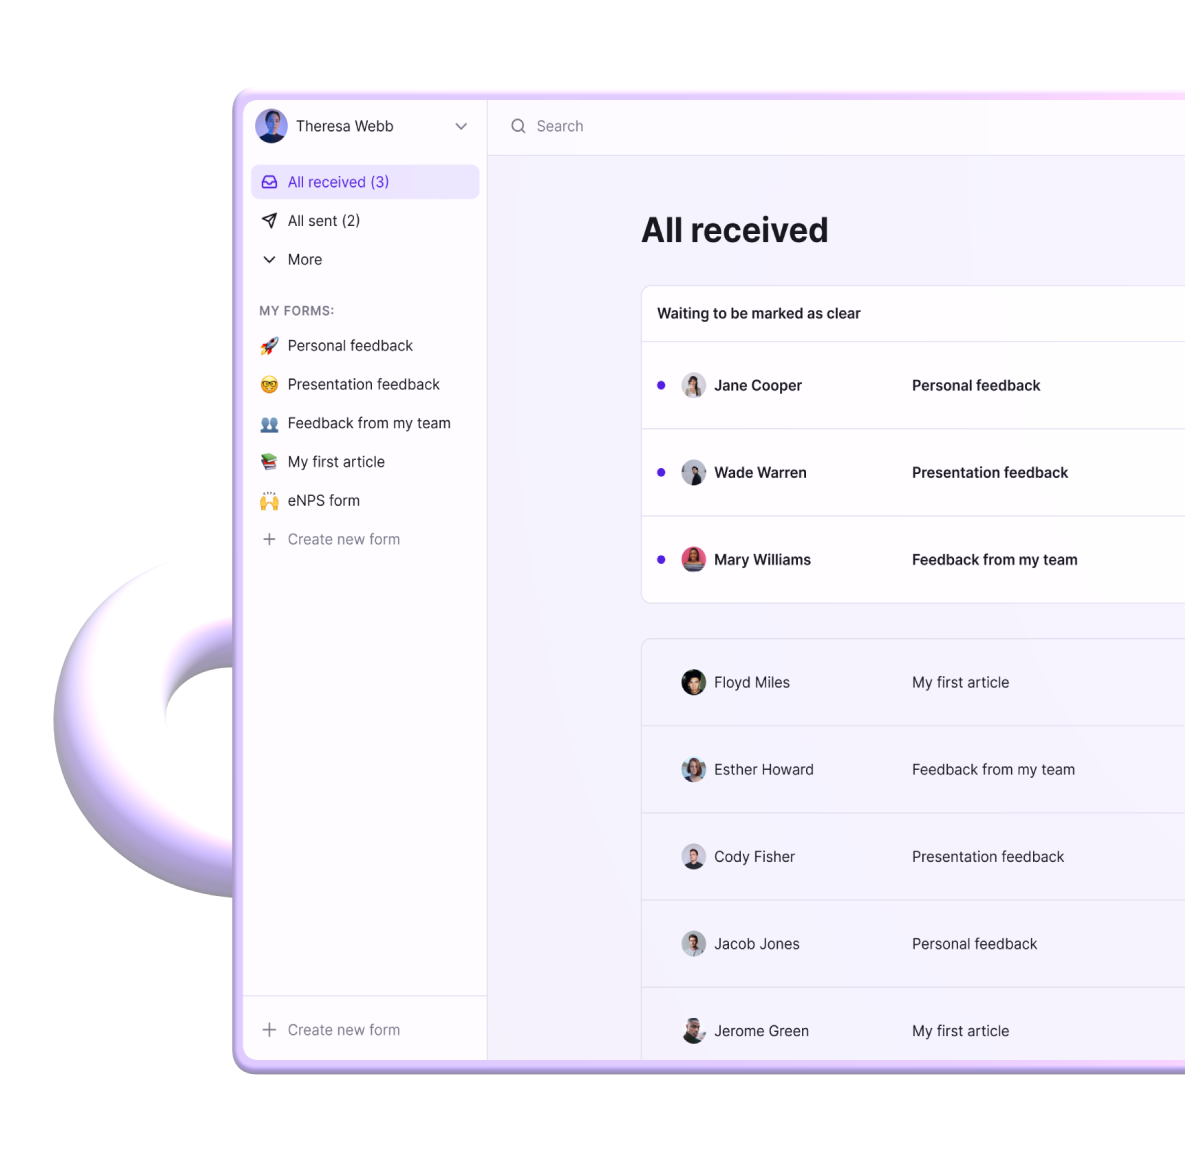
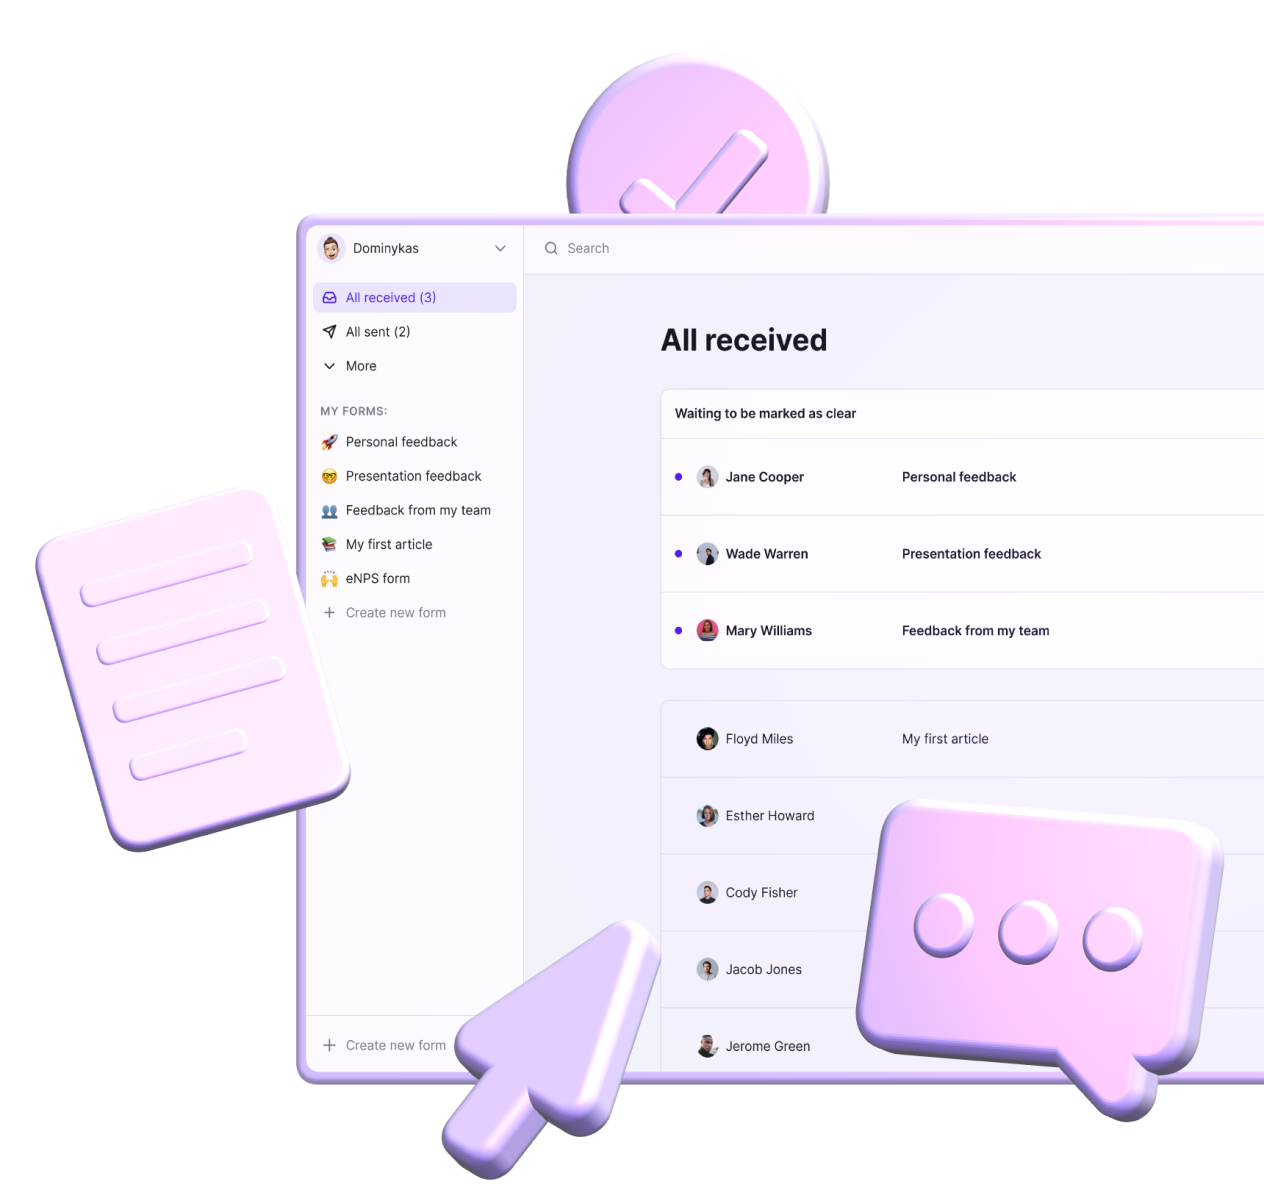
Image before 3d animation

diff --git a/src/routes/index.svelte b/src/routes/index.svelte
@@ -1,4 +1,5 @@
 <script>
+	import { onMount } from 'svelte';
 	import { createClient } from '@supabase/supabase-js'
 	import Logo from '$/svg/Logo.svelte'
 	import LogoImage from '$/svg/LogoImage.svelte'
@@ -7,6 +8,17 @@
 	const supabaseUrl = "https://iklqhrrxiyjfmaiskeym.supabase.co";
 	const supabaseKey = 'eyJhbGciOiJIUzI1NiIsInR5cCI6IkpXVCJ9.eyJyb2xlIjoiYW5vbiIsImlhdCI6MTYxNzMwMzA5MiwiZXhwIjoxOTMyODc5MDkyfQ.JSXPBUiRbISJjIHiKfJK-0gsPWdRlZyZhuyHD2ClHEU'
 	const supabase = createClient(supabaseUrl, supabaseKey)
+
+	let canvasElement;
+	let isCanvasLoading = true;
+	onMount(() => {
+		const resizeObserver = new ResizeObserver(() => {
+			console.log('size changed')
+			isCanvasLoading = false;
+			window.app.init();
+		})
+		resizeObserver.observe(canvasElement)
+	})
 	 
 	let email = ''
 	let error = ''
@@ -51,8 +63,10 @@
 				</div>
 			</div>
 			<div class="main__right">
-				<!-- <img class="main__dashboard-image" src={'images/dashboard.png'} alt="Dashboard"> -->
-				<canvas id="canvas3d" width="1290" height="1230" style="width: 860px; height: 820px;"></canvas>
+			{#if isCanvasLoading}
+				<img class="main__dashboard-image" src={'images/dashboard.png'} alt="Dashboard">
+			{/if}
+			<canvas bind:this={canvasElement} class:show={!isCanvasLoading} id="canvas3d" width="1290" height="1230" style="width: 860px; height: 820px;"></canvas>
 			</div>
 		</div>
 	</main>	
@@ -60,8 +74,11 @@
 <style>
 #canvas3d {
 	flex-basis: inherit;
+	height: 0 !important;
 }
-
+#canvas3d.show {
+	height: auto !important;
+}
 .scroll {
 	height: 100%;
 	width: 100%;
